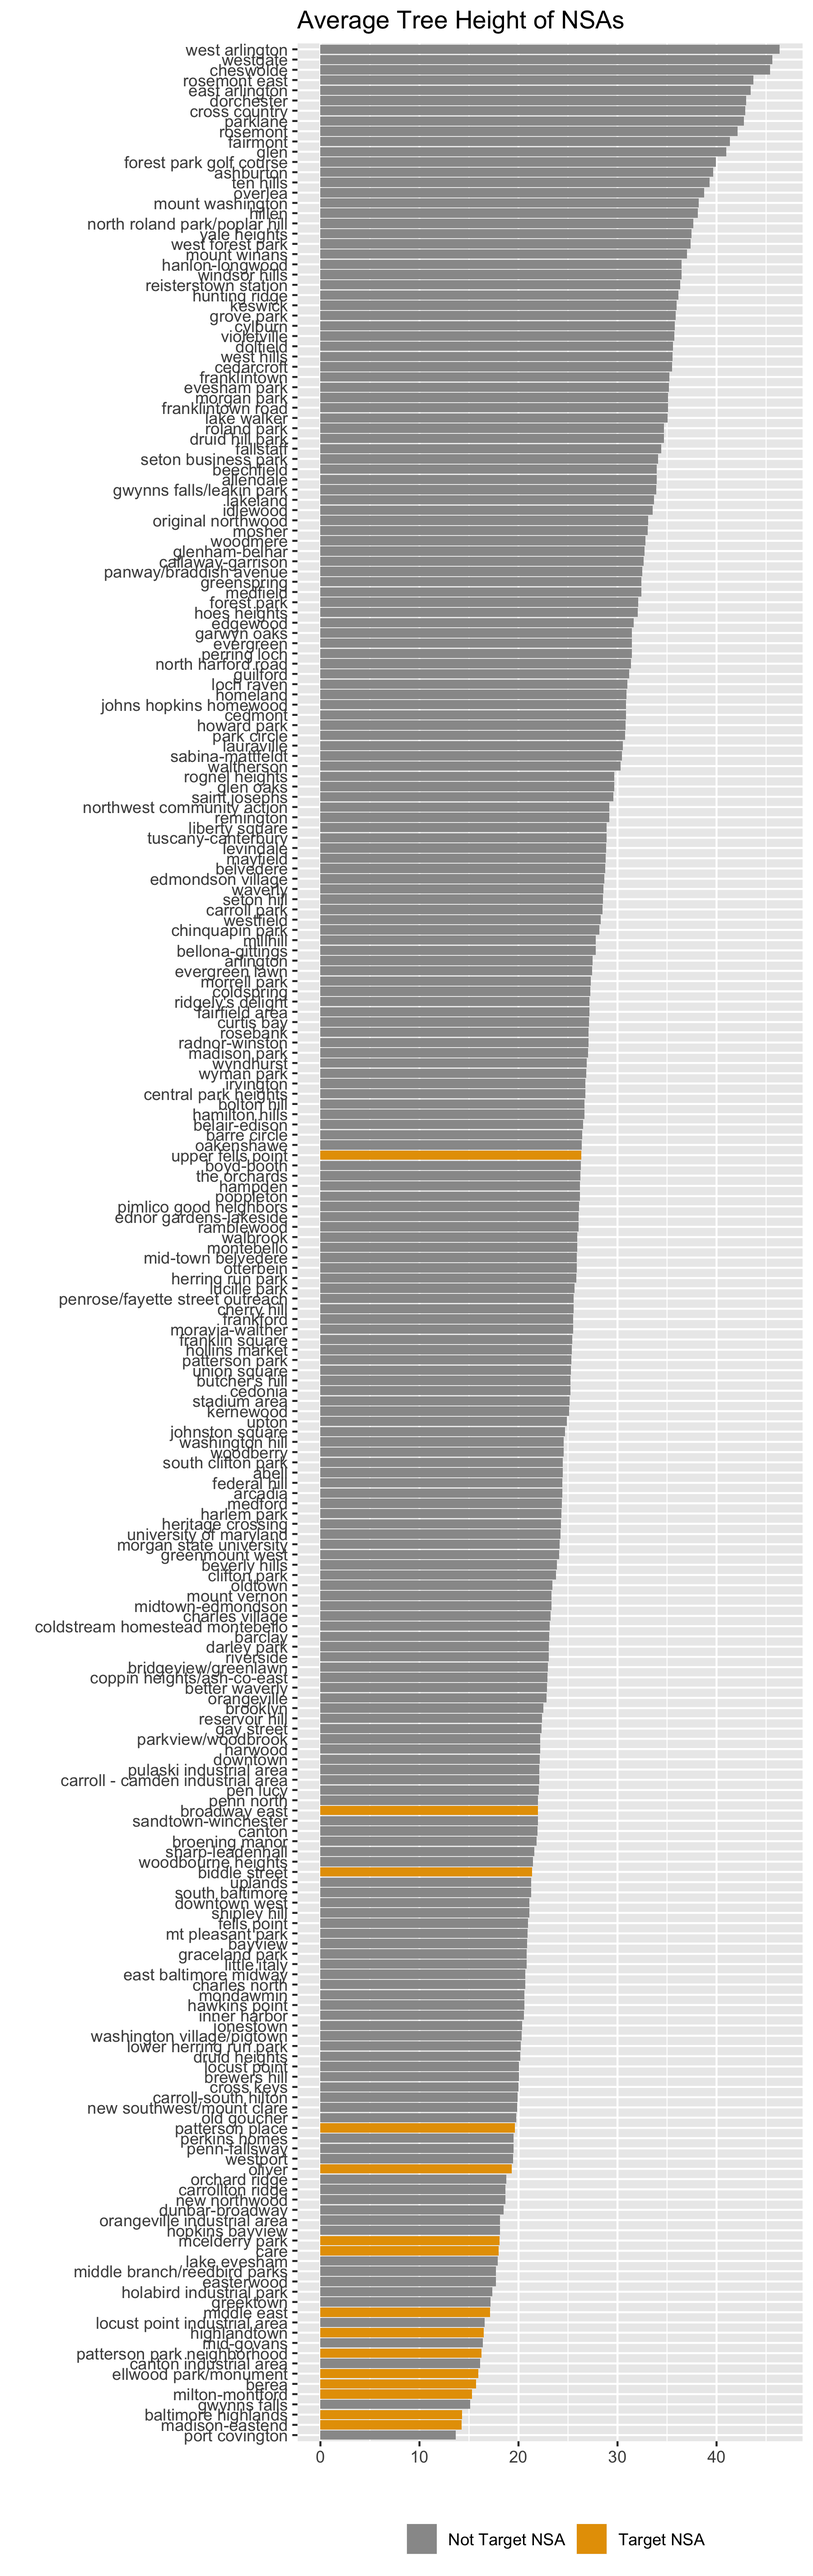
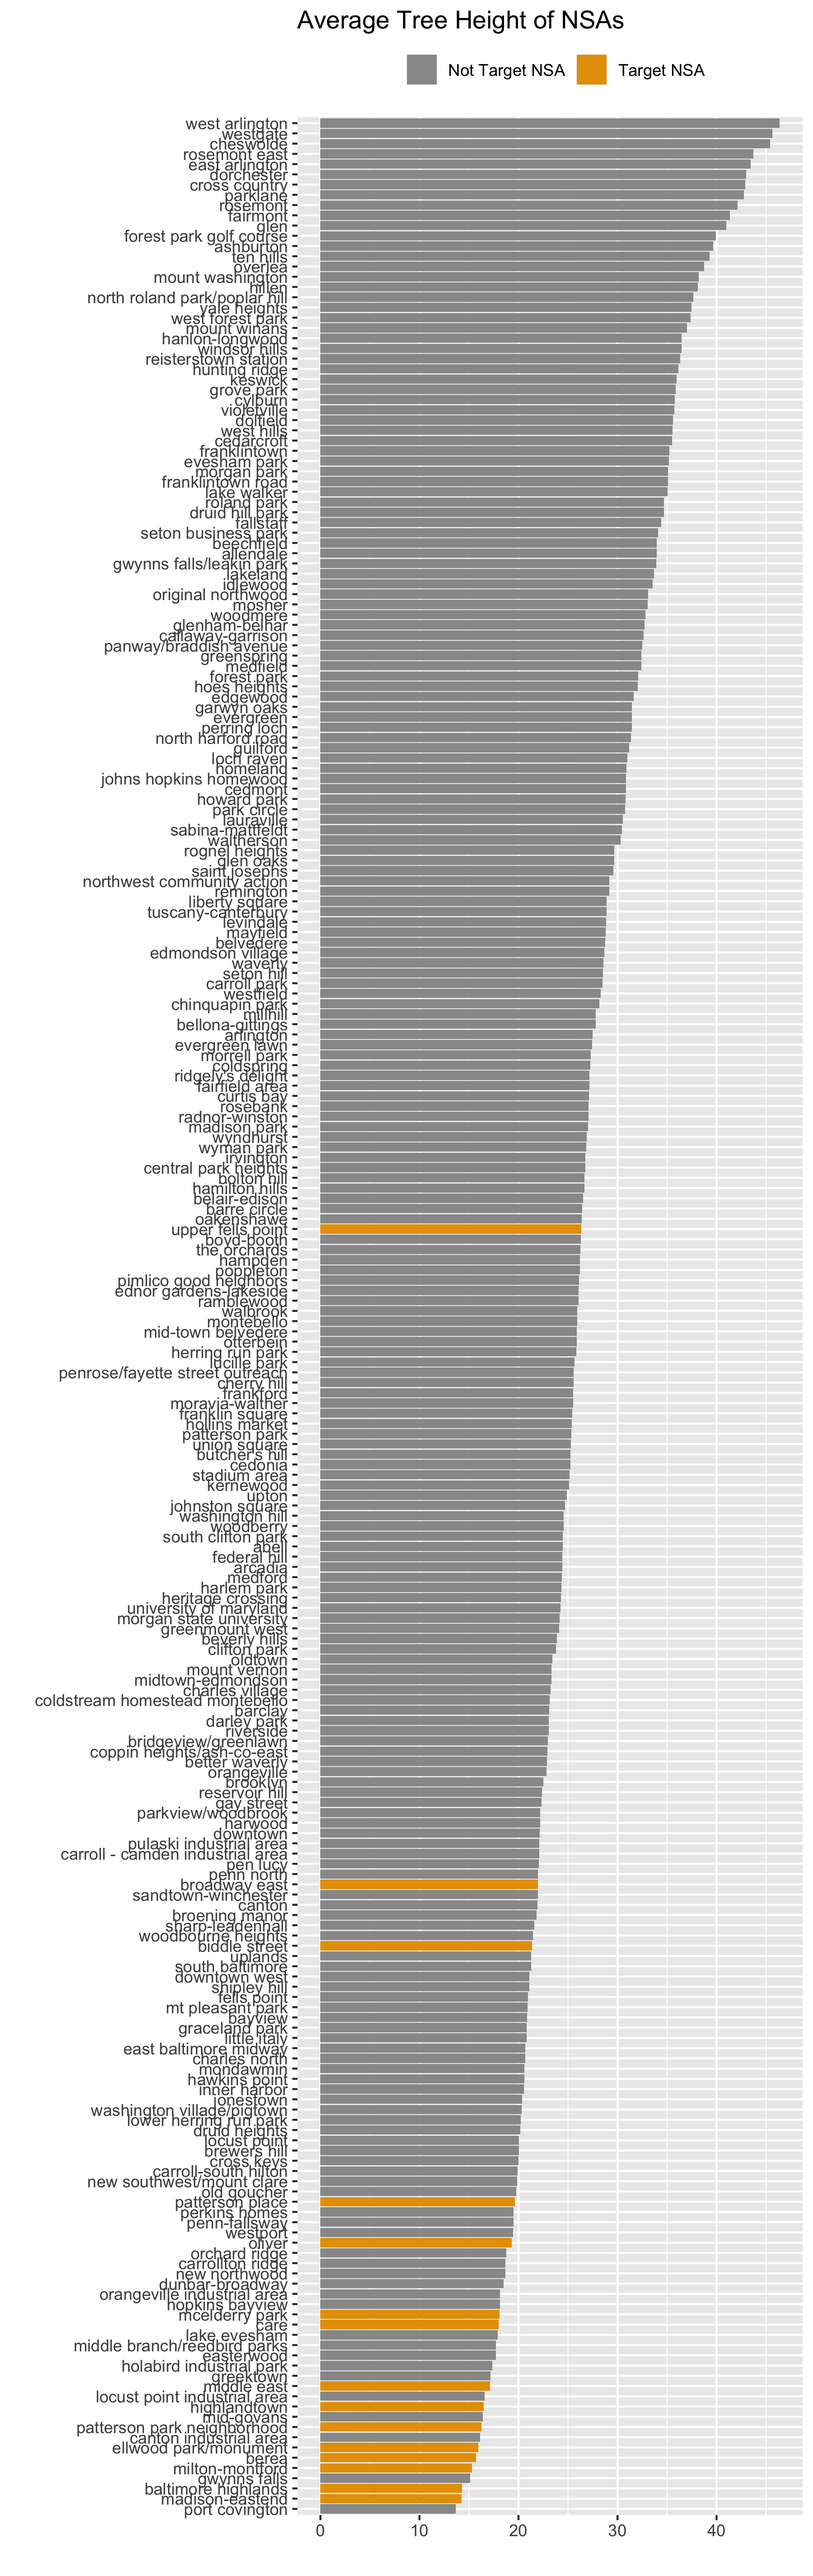
tree height-diam plots update

Changed region(s): [[0.0933, 0.0, 0.9956, 0.9993], [0.1244, 0.2498, 0.1556, 0.2811]]

diff --git a/memos/street-tree-analysis-july-01.md b/memos/street-tree-analysis-july-01.md
@@ -3,9 +3,9 @@
 _INCOMPLETE_
 
 ## Definitions
-* Neighborhoods: Neighborhood Statistical Areas (NSAs)
-* Target neighborhoods: "Berea", "Broadway East", "Oliver", "Middle East", "Biddle Street","Milton-Montford", "Madison-Eastend", "CARE", "McElderry Park", "Ellwood Park/Monument", "Patterson Place", "Patterson Park Neighborhood", "Baltimore Highlands", "Highlandtown", "Upper Fells Point"
-* Counterpoint neighborhoods (nearby NSAs that are richer than the target NSAs): "Butcher's Hill", "Canton", "Washington Hill"
+* Neighborhoods (277): Neighborhood Statistical Areas (NSAs)
+* Target neighborhoods (15): "Berea", "Broadway East", "Oliver", "Middle East", "Biddle Street","Milton-Montford", "Madison-Eastend", "CARE", "McElderry Park", "Ellwood Park/Monument", "Patterson Place", "Patterson Park Neighborhood", "Baltimore Highlands", "Highlandtown", "Upper Fells Point"
+* Counterpoint neighborhoods (3 nearby NSAs that are richer than the target NSAs): "Butcher's Hill", "Canton", "Washington Hill"
 
 ## Summary
 
@@ -14,8 +14,16 @@ _INCOMPLETE_
 ## Details
 
 ### Tree Height / Diameter
+All height/diameter rankings consider only NSAs with at least 100 live trees, making the sample set 234 out of the original 277. [NEED TO VERIFY THIS COUNT LATER.]
 
 #### Citywide
+* **Height**: All target neighborhoods are in the bottom 100, spread between ranks 109 (Upper Fells Point) and 233 (Madison-Eastend).
+* **Diameter**: all target neighborhoods are in the bottom 150, spread between ranks 159 (Broadway East) and 234 (Milton-Montford).
+
+_Click to enlarge_
+| Height | Diameter |
+| ------ | -------- |
+| <img src="https://github.com/smussenden/2019-baltimore-climate-health-project-data-repo/blob/master/data/output-data/street-tree-analyses/plots/avg_tree_height_all_nsas.png?raw=true" alt="Tree Height" width="200"/> | <img src="https://github.com/smussenden/2019-baltimore-climate-health-project-data-repo/blob/master/data/output-data/street-tree-analyses/plots/avg_tree_diameter_all_nsas.png?raw=true" alt="Tree Height" width="200"/>
 
 
 #### Within the target NSAs
